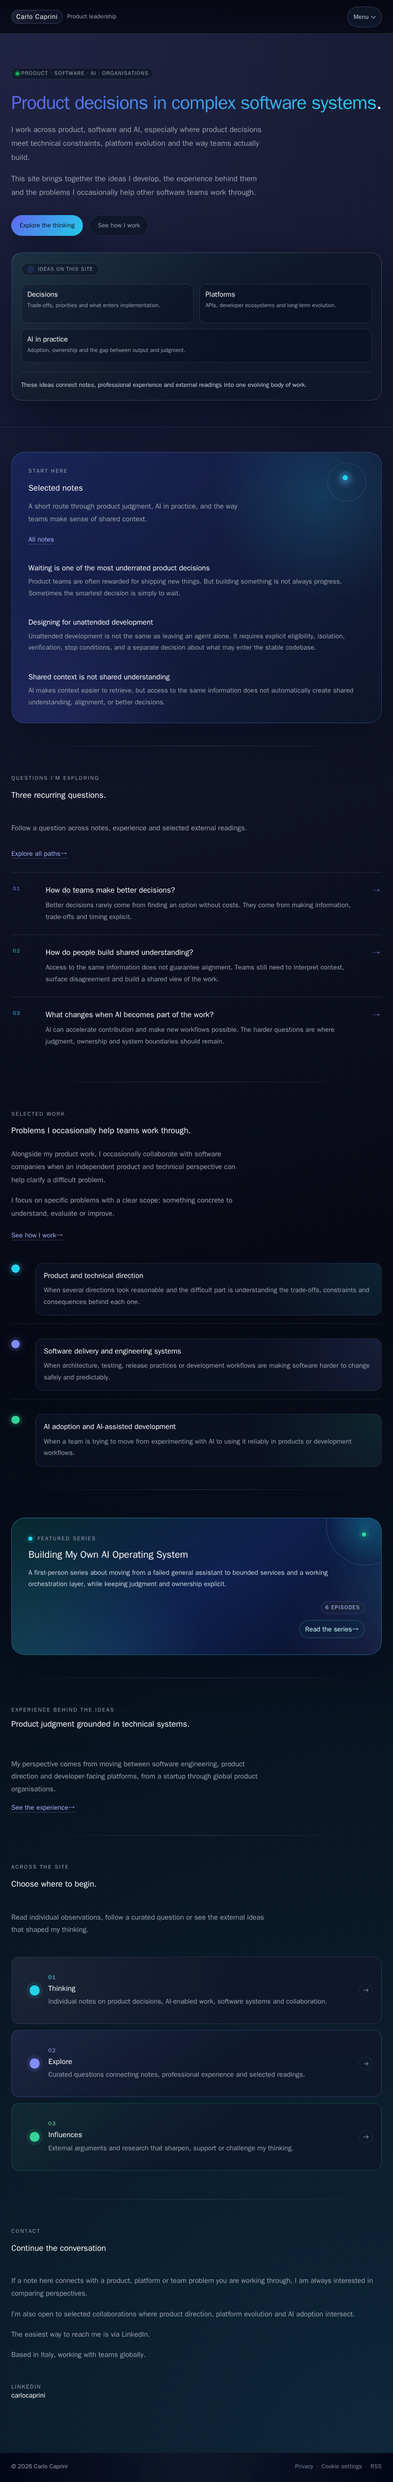
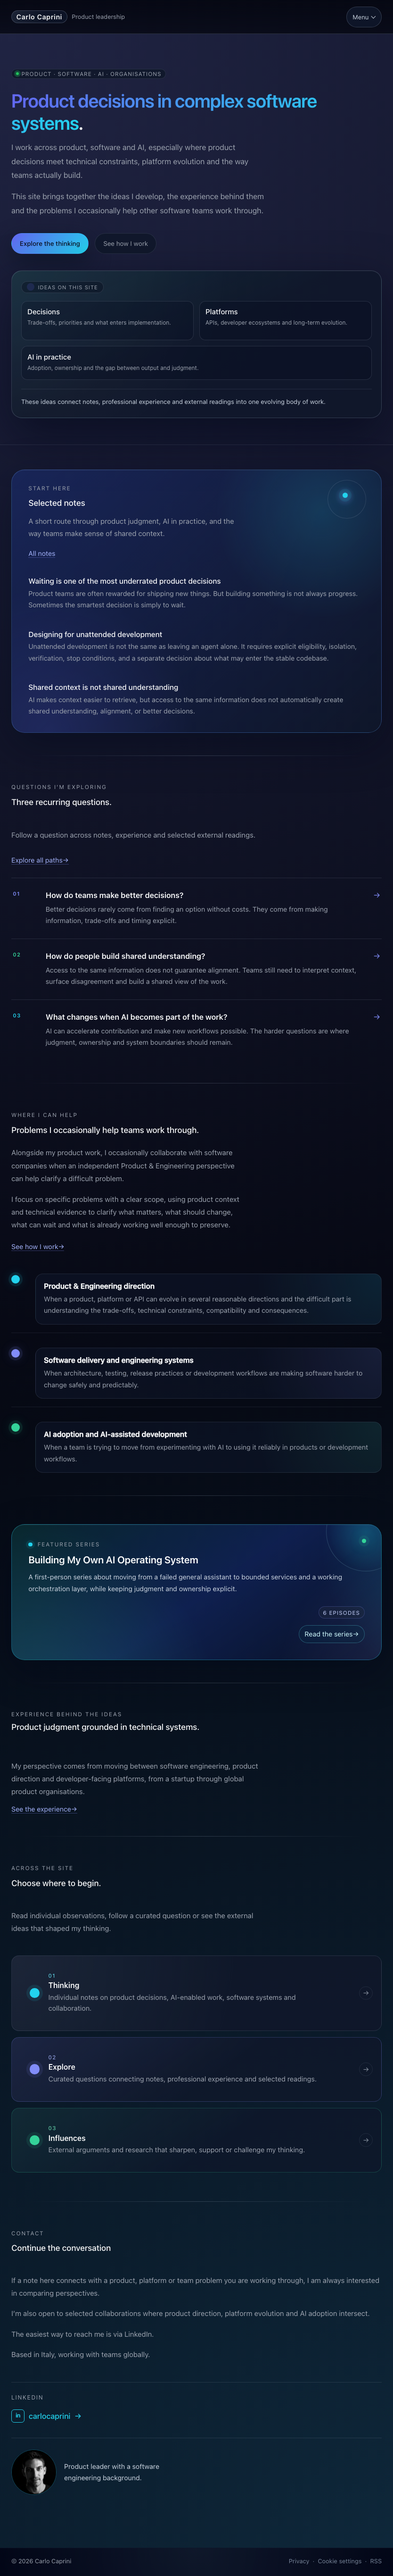
docs: define the home contact identity pattern

Changed region(s): [[0.0312, 0.187, 0.9976, 0.9664], [0.0312, 0.0, 0.7794, 0.1559], [0.8106, 0.4676, 0.9976, 0.5611]]

diff --git a/docs/design-system.md b/docs/design-system.md
@@ -356,6 +356,24 @@ Rules:
 - Avoid yellow unless there is a deliberate warm semantic reason.
 - Notes should be short and confident.
 
+### Home Contact Identity
+
+The Home Contact section remains a low-pressure continuation path, not an author profile or promotional panel. Preserve its two-column composition on desktop and its existing explanatory copy.
+
+Keep:
+
+- the conversation heading and supporting copy as the primary section content
+
+- LinkedIn as the strongest action in the secondary column, using the shared LinkedIn profile-link treatment
+
+- one compact, non-interactive portrait and a single restrained identity tagline below the action
+
+- the canonical portrait, LinkedIn URL, handle and tagline from person data
+
+- a stacked mobile order of copy, LinkedIn action, then supporting identity
+
+The Contact portrait reuses the article-signature crop and border treatment, but the two sections remain separate components with different purposes. Avoid cards, biography copy, new social-icon families, animation and visual effects that compete with the LinkedIn action.
+
 ### Influence Cards
 
 Keep:
